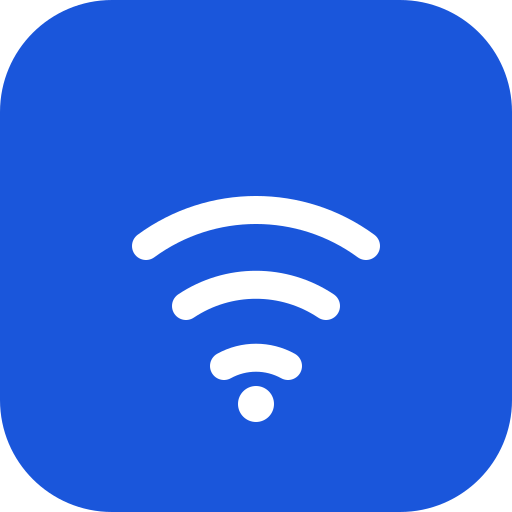
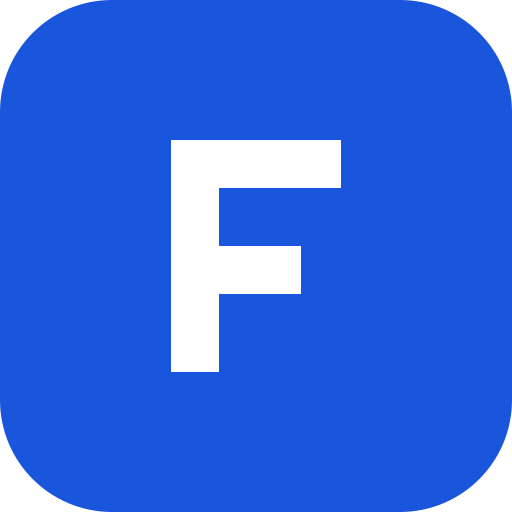
Deploy floor-plan PWA update to GitHub Pages

Changed region(s): [[0.25, 0.25, 0.75, 0.8438]]

diff --git a/sw.js b/sw.js
@@ -1,1 +1,1 @@
-if(!self.define){let e,i={};const n=(n,s)=>(n=new URL(n+".js",s).href,i[n]||new Promise(i=>{if("document"in self){const e=document.createElement("script");e.src=n,e.onload=i,document.head.appendChild(e)}else e=n,importScripts(n),i()}).then(()=>{let e=i[n];if(!e)throw new Error(`Module ${n} didn’t register its module`);return e}));self.define=(s,o)=>{const r=e||("document"in self?document.currentScript.src:"")||location.href;if(i[r])return;let c={};const l=e=>n(e,r),f={module:{uri:r},exports:c,require:l};i[r]=Promise.all(s.map(e=>f[e]||l(e))).then(e=>(o(...e),c))}}define(["./workbox-9c191d2f"],function(e){"use strict";self.skipWaiting(),e.clientsClaim(),e.precacheAndRoute([{url:"sample-floorplan.png",revision:"209c0a6814446bb09b5d5d69550937b2"},{url:"registerSW.js",revision:"504952be3944cae87ea2705c0fb7bd46"},{url:"index.html",revision:"ce07a722e2ba214d59cf0ed00ea00c82"},{url:"favicon.svg",revision:"484889bf78f60eca4981951c17518dbd"},{url:"apple-touch-icon.png",revision:"f1f7e5d1989f7d4b21300ed1e936145e"},{url:"icons/maskable-512.png",revision:"46994893ff807056dbf499d5283691d6"},{url:"icons/icon-512.png",revision:"b3db8b5f04da0ace965f43132bcf8493"},{url:"icons/icon-192.png",revision:"524e38767e9e60e975e31f118426f220"},{url:"icons/app-icon-source.svg",revision:"484889bf78f60eca4981951c17518dbd"},{url:"assets/index-DvPI5h6R.js",revision:null},{url:"assets/index-BEfHl0hW.css",revision:null},{url:"assets/Floor3DView-CRcPvJcd.css",revision:null},{url:"assets/Floor3DView-BALuzjHJ.js",revision:null},{url:"apple-touch-icon.png",revision:"f1f7e5d1989f7d4b21300ed1e936145e"},{url:"favicon.svg",revision:"484889bf78f60eca4981951c17518dbd"},{url:"icons/icon-192.png",revision:"524e38767e9e60e975e31f118426f220"},{url:"icons/icon-512.png",revision:"b3db8b5f04da0ace965f43132bcf8493"},{url:"icons/maskable-512.png",revision:"46994893ff807056dbf499d5283691d6"},{url:"manifest.webmanifest",revision:"89e2171b143b26e711e882d15b0c0b2c"}],{}),e.cleanupOutdatedCaches(),e.registerRoute(new e.NavigationRoute(e.createHandlerBoundToURL("index.html")))});
+if(!self.define){let e,i={};const n=(n,s)=>(n=new URL(n+".js",s).href,i[n]||new Promise(i=>{if("document"in self){const e=document.createElement("script");e.src=n,e.onload=i,document.head.appendChild(e)}else e=n,importScripts(n),i()}).then(()=>{let e=i[n];if(!e)throw new Error(`Module ${n} didn’t register its module`);return e}));self.define=(s,o)=>{const r=e||("document"in self?document.currentScript.src:"")||location.href;if(i[r])return;let c={};const d=e=>n(e,r),l={module:{uri:r},exports:c,require:d};i[r]=Promise.all(s.map(e=>l[e]||d(e))).then(e=>(o(...e),c))}}define(["./workbox-9c191d2f"],function(e){"use strict";self.skipWaiting(),e.clientsClaim(),e.precacheAndRoute([{url:"sample-floorplan.png",revision:"209c0a6814446bb09b5d5d69550937b2"},{url:"registerSW.js",revision:"504952be3944cae87ea2705c0fb7bd46"},{url:"index.html",revision:"ce07a722e2ba214d59cf0ed00ea00c82"},{url:"favicon.svg",revision:"552671b817ee8f026724a5073230c9d4"},{url:"apple-touch-icon.png",revision:"b295953bbd8b18af3c5d6b7bb07c21e7"},{url:"icons/maskable-512.png",revision:"1d4aa69d533929a2c7253d2b88d349bb"},{url:"icons/icon-512.png",revision:"6179e25de34be4ee0dd0c28360dfbea5"},{url:"icons/icon-192.png",revision:"ce27dd88bf52fce909cfdbc1fdea4740"},{url:"icons/app-icon-source.svg",revision:"552671b817ee8f026724a5073230c9d4"},{url:"assets/index-DvPI5h6R.js",revision:null},{url:"assets/index-BEfHl0hW.css",revision:null},{url:"assets/Floor3DView-CRcPvJcd.css",revision:null},{url:"assets/Floor3DView-BALuzjHJ.js",revision:null},{url:"apple-touch-icon.png",revision:"b295953bbd8b18af3c5d6b7bb07c21e7"},{url:"favicon.svg",revision:"552671b817ee8f026724a5073230c9d4"},{url:"icons/icon-192.png",revision:"ce27dd88bf52fce909cfdbc1fdea4740"},{url:"icons/icon-512.png",revision:"6179e25de34be4ee0dd0c28360dfbea5"},{url:"icons/maskable-512.png",revision:"1d4aa69d533929a2c7253d2b88d349bb"},{url:"manifest.webmanifest",revision:"89e2171b143b26e711e882d15b0c0b2c"}],{}),e.cleanupOutdatedCaches(),e.registerRoute(new e.NavigationRoute(e.createHandlerBoundToURL("index.html")))});
